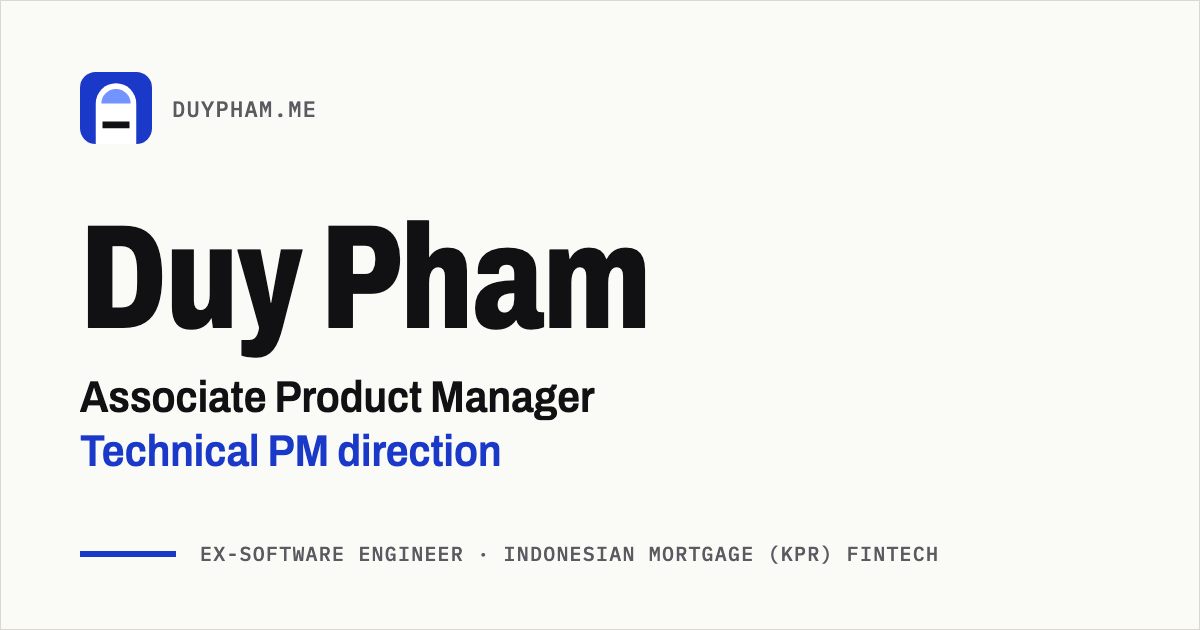
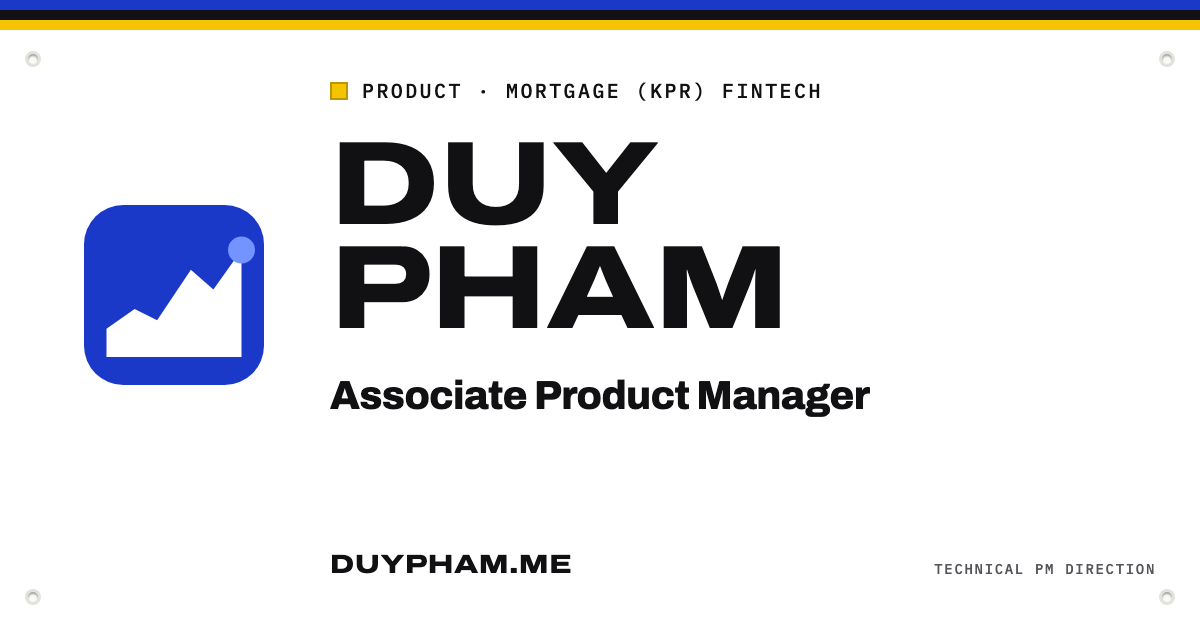
feat: OG card rebuilt from the hero bib, centre-safe
The round-1 card used a condensed mixed-case name and a cobalt second
headline, so it read as a different brand from the site. Rebuild it
from the hero bib: wide uppercase Archivo name, 800-weight title, mono
labels at .12em, the three-colour stripe band and pin holes, with the
stage-profile tile on the left.

Every essential element sits inside the centre 630x630 square, so
square crops (WhatsApp thumbnails, compact Slack and Telegram previews)
keep the name, title and wordmark whole.

diff --git a/tests/unit/og-image.test.ts b/tests/unit/og-image.test.ts
@@ -6,12 +6,12 @@ import { describe, expect, it } from "vitest";
 const png = readFileSync(resolve(process.cwd(), "public/og-image.png"));
 const robots = readFileSync(resolve(process.cwd(), "public/robots.txt"), "utf8");
 
-// SHA-256 of the approved OG card A (paper card). Changing it means a new mockup
-// review first, then updating this hash on purpose.
[1 lines of base64/hex data omitted]
+// SHA-256 of the approved OG card v3-B (bib card, tile left, centre-safe for square
+// crops). Changing it means a new mockup review first, then updating this hash on purpose.
[1 lines of base64/hex data omitted]
 
 describe("OG image", () => {
-  it("is byte-identical to the approved card A", () => {
+  it("is byte-identical to the approved card v3-B", () => {
     expect(createHash("sha256").update(png).digest("hex")).toBe(APPROVED_SHA256);
   });
 
